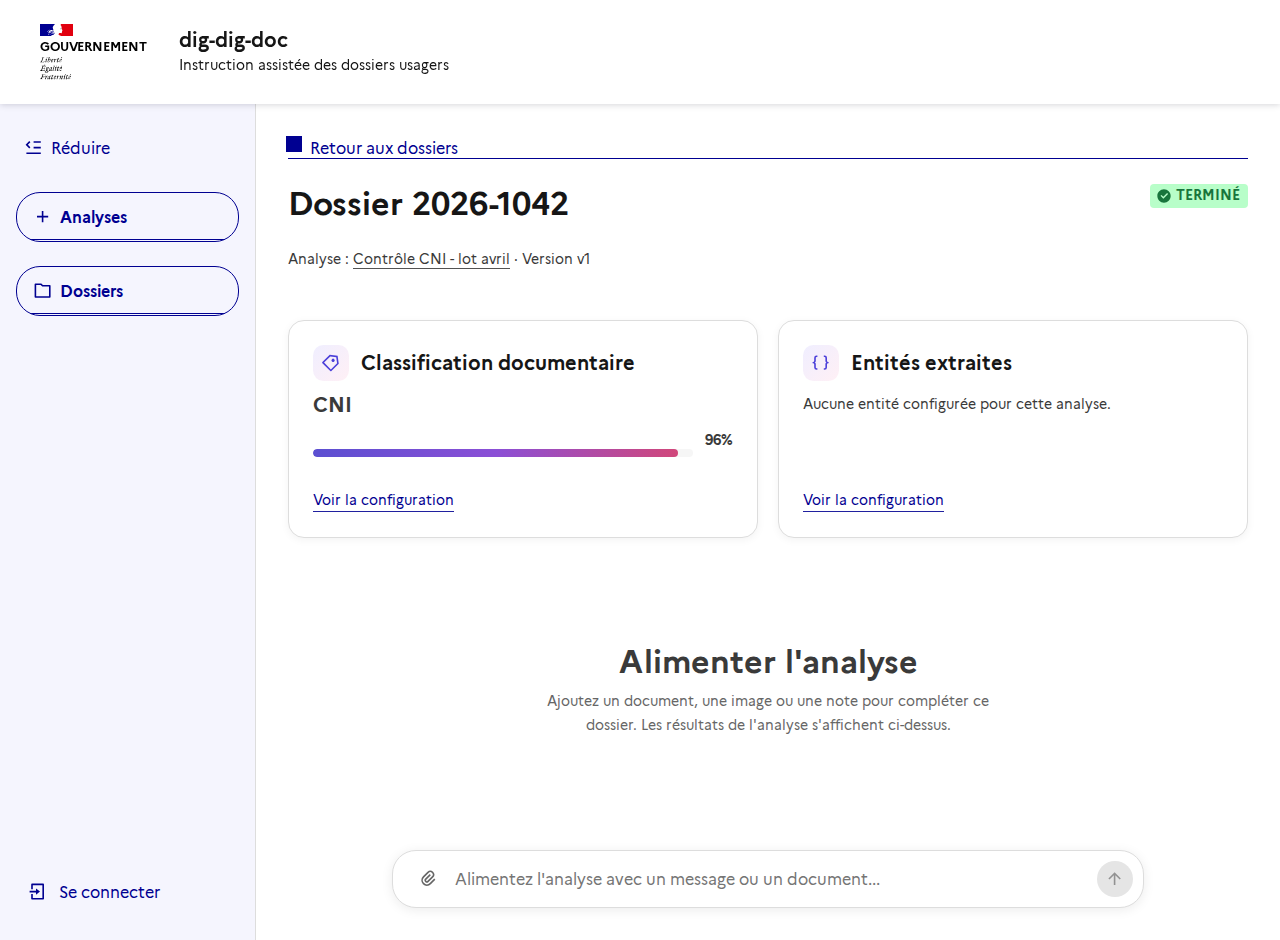
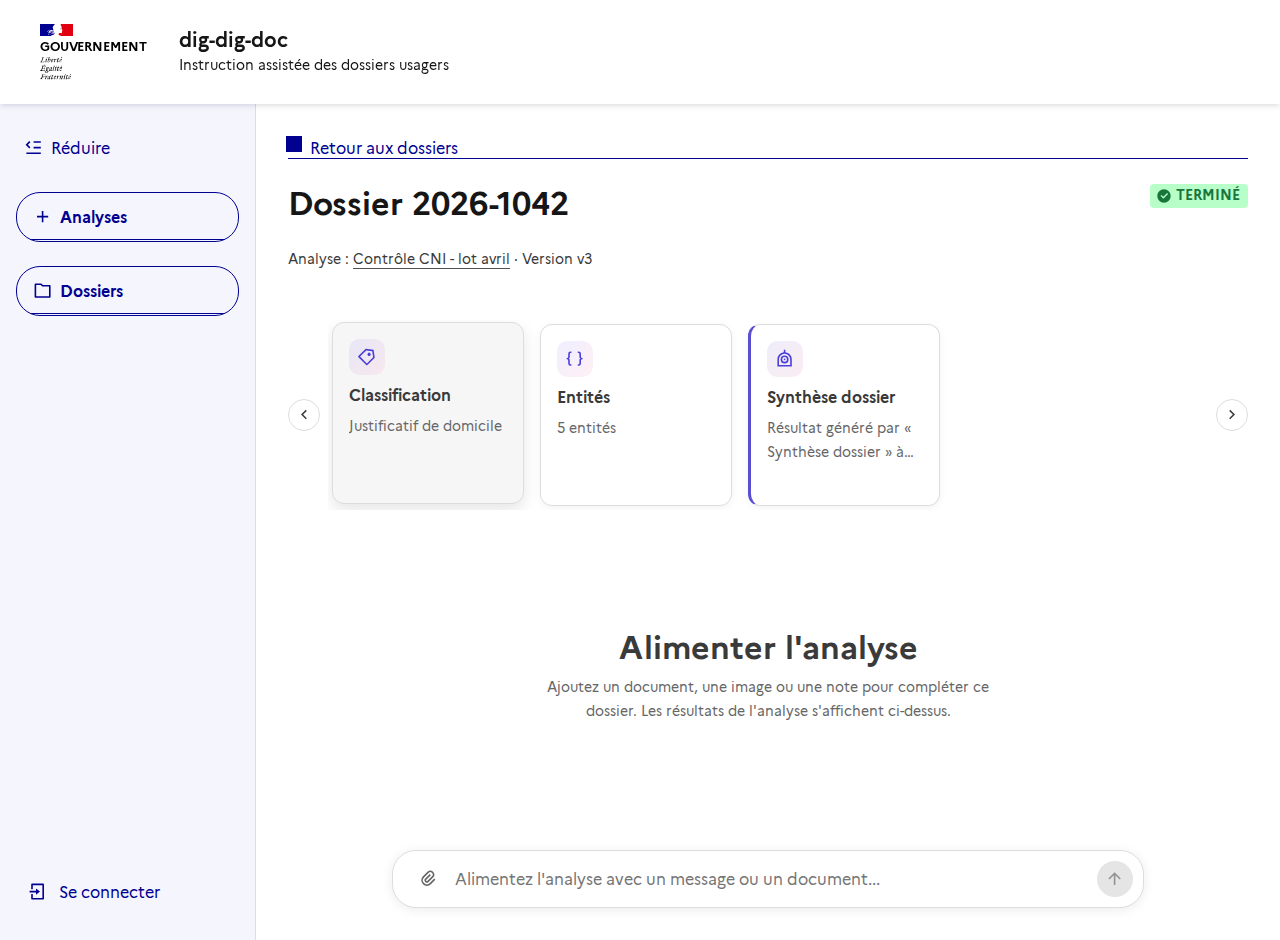
feat(frontend): résultats du dossier en carrousel de cartes cliquables
Remplace les grandes cartes de résultat par un carrousel de cartes
compactes (icône, titre, aperçu sur 2 lignes) défilable horizontalement
avec des flèches précédent/suivant. Cliquer sur une carte ouvre son
détail complet dans une modale (jauge de confiance pour la
classification, liste des entités, texte complet pour un agent).

diff --git a/frontend/src/components/dossiers/DossierResults.vue b/frontend/src/components/dossiers/DossierResults.vue
@@ -1,6 +1,5 @@
 <script setup lang="ts">
-import { computed } from "vue";
-import { RouterLink } from "vue-router";
+import { computed, ref } from "vue";
 
 import type { Analyse } from "@/types/analyse";
 import type { Dossier } from "@/types/dossier";
@@ -15,7 +14,7 @@ const classificationResult = computed(() => {
   const output = classificationStep.value?.output;
   if (!output) return undefined;
   const match = output.match(/^(.*) \(confiance : (\d+)%\)$/);
-  if (!match) return { label: output, confidence: undefined };
+  if (!match) return { label: output, confidence: undefined as number | undefined };
   return { label: match[1], confidence: Number(match[2]) };
 });
 
@@ -27,94 +26,222 @@ const extractionResult = computed(() => {
     return { name, value };
   });
 });
+
+type ResultCardKind = "classification" | "extraction" | "agent";
+
+interface ResultCard {
+  id: string;
+  kind: ResultCardKind;
+  icon: string;
+  title: string;
+  preview: string;
+  pending: boolean;
+}
+
+function extractionPreview(): string {
+  if (extractionResult.value) {
+    const count = extractionResult.value.length;
+    return `${count} ${count > 1 ? "entités" : "entité"}`;
+  }
+  return extractionStep.value?.output ?? "En attente";
+}
+
+function classificationPreview(): string {
+  if (classificationResult.value) return classificationResult.value.label;
+  return classificationStep.value?.output ?? "En attente";
+}
+
+const cards = computed<ResultCard[]>(() => {
+  const items: ResultCard[] = [
+    {
+      id: "classification",
+      kind: "classification",
+      icon: "ri-price-tag-3-line",
+      title: "Classification",
+      pending: !classificationStep.value,
+      preview: classificationPreview(),
+    },
+    {
+      id: "extraction",
+      kind: "extraction",
+      icon: "ri-braces-line",
+      title: "Entités",
+      pending: !extractionStep.value,
+      preview: extractionPreview(),
+    },
+  ];
+  agentSteps.value.forEach((step) => {
+    items.push({
+      id: step.id,
+      kind: "agent",
+      icon: "ri-robot-line",
+      title: step.label,
+      pending: false,
+      preview: step.output ?? "",
+    });
+  });
+  return items;
+});
+
+const selectedCardId = ref<string | undefined>(undefined);
+const isDetailOpened = ref(false);
+const selectedCard = computed(() => cards.value.find((c) => c.id === selectedCardId.value));
+
+function openDetail(card: ResultCard) {
+  if (card.pending) return;
+  selectedCardId.value = card.id;
+  isDetailOpened.value = true;
+}
+
+const carouselRef = ref<HTMLElement | null>(null);
+function scrollCarousel(direction: 1 | -1) {
+  carouselRef.value?.scrollBy({ left: direction * 240, behavior: "smooth" });
+}
 </script>
 
 <template>
   <div class="dossier-results">
-    <div class="dossier-results__card">
-      <div class="dossier-results__card-header">
-        <span class="dossier-results__icon"><VIcon name="ri-price-tag-3-line" /></span>
-        <h2 class="fr-h6 dossier-results__card-title">Classification documentaire</h2>
-      </div>
+    <button
+      type="button"
+      class="dossier-results__nav dossier-results__nav--prev"
+      aria-label="Résultats précédents"
+      @click="scrollCarousel(-1)"
+    >
+      <VIcon name="ri-arrow-left-s-line" />
+    </button>
 
-      <p v-if="!classificationStep" class="fr-text--sm dossier-results__pending">
-        En attente de l'exécution de l'analyse.
-      </p>
-      <template v-else-if="classificationResult">
-        <p class="dossier-results__classification-label">{{ classificationResult.label }}</p>
-        <div v-if="classificationResult.confidence !== undefined" class="dossier-results__gauge">
+    <div ref="carouselRef" class="dossier-results__carousel">
+      <button
+        v-for="card in cards"
+        :key="card.id"
+        type="button"
+        class="dossier-results__card"
+        :class="{
+          'dossier-results__card--agent': card.kind === 'agent',
+          'dossier-results__card--pending': card.pending,
+        }"
+        :disabled="card.pending"
+        @click="openDetail(card)"
+      >
+        <span class="dossier-results__icon" :class="{ 'dossier-results__icon--agent': card.kind === 'agent' }">
+          <VIcon :name="card.icon" />
+        </span>
+        <span class="dossier-results__card-title">{{ card.title }}</span>
+        <span class="fr-text--sm dossier-results__card-preview">{{ card.preview }}</span>
+      </button>
+    </div>
+
+    <button
+      type="button"
+      class="dossier-results__nav dossier-results__nav--next"
+      aria-label="Résultats suivants"
+      @click="scrollCarousel(1)"
+    >
+      <VIcon name="ri-arrow-right-s-line" />
+    </button>
+
+    <DsfrModal
+      v-if="selectedCard"
+      v-model:opened="isDetailOpened"
+      :title="selectedCard.title"
+      :icon="selectedCard.icon"
+    >
+      <template v-if="selectedCard.kind === 'classification'">
+        <p class="dossier-results__detail-label">{{ classificationResult?.label }}</p>
+        <div v-if="classificationResult?.confidence !== undefined" class="dossier-results__gauge">
           <div class="dossier-results__gauge-track">
             <div class="dossier-results__gauge-fill" :style="{ width: `${classificationResult.confidence}%` }" />
           </div>
           <span class="fr-text--sm dossier-results__gauge-value">{{ classificationResult.confidence }}%</span>
         </div>
       </template>
-      <p v-else class="fr-text--sm">{{ classificationStep.output }}</p>
 
-      <RouterLink :to="`/analyses/${dossier.analyseId}`" class="fr-link fr-text--sm dossier-results__config-link">
-        Voir la configuration
-      </RouterLink>
-    </div>
-
-    <div class="dossier-results__card">
-      <div class="dossier-results__card-header">
-        <span class="dossier-results__icon"><VIcon name="ri-braces-line" /></span>
-        <h2 class="fr-h6 dossier-results__card-title">Entités extraites</h2>
-      </div>
-
-      <p v-if="!extractionStep" class="fr-text--sm dossier-results__pending">
-        En attente de l'exécution de l'analyse.
-      </p>
-      <dl v-else-if="extractionResult" class="dossier-results__entities">
+      <dl v-else-if="selectedCard.kind === 'extraction' && extractionResult" class="dossier-results__entities">
         <div v-for="entity in extractionResult" :key="entity.name" class="dossier-results__entity">
           <dt class="fr-text--sm dossier-results__entity-name">{{ entity.name }}</dt>
           <dd class="dossier-results__entity-value">{{ entity.value }}</dd>
         </div>
       </dl>
-      <p v-else class="fr-text--sm">{{ extractionStep.output }}</p>
 
-      <RouterLink :to="`/analyses/${dossier.analyseId}`" class="fr-link fr-text--sm dossier-results__config-link">
+      <p v-else class="dossier-results__agent-output">{{ selectedCard.preview }}</p>
+
+      <RouterLink
+        v-if="selectedCard.kind !== 'agent'"
+        :to="`/analyses/${dossier.analyseId}`"
+        class="fr-link fr-text--sm dossier-results__config-link"
+      >
         Voir la configuration
       </RouterLink>
-    </div>
-
-    <div v-for="step in agentSteps" :key="step.id" class="dossier-results__card dossier-results__card--agent">
-      <div class="dossier-results__card-header">
-        <span class="dossier-results__icon dossier-results__icon--agent"><VIcon name="ri-robot-line" /></span>
-        <h2 class="fr-h6 dossier-results__card-title">{{ step.label }}</h2>
-      </div>
-      <p class="fr-text--sm dossier-results__agent-output">{{ step.output }}</p>
-    </div>
+    </DsfrModal>
   </div>
 </template>
 
 <style scoped>
 .dossier-results {
-  display: grid;
-  grid-template-columns: repeat(auto-fit, minmax(16rem, 1fr));
-  gap: 1.25rem;
+  display: flex;
+  align-items: center;
+  gap: 0.5rem;
   margin-bottom: 1.5rem;
 }
 
+.dossier-results__nav {
+  flex-shrink: 0;
+  display: flex;
+  align-items: center;
+  justify-content: center;
+  width: 2rem;
+  height: 2rem;
+  border: 1px solid var(--border-default-grey);
+  border-radius: 50%;
+  background: var(--background-default-grey);
+  cursor: pointer;
+}
+
+.dossier-results__nav:hover {
+  background: var(--background-alt-grey-hover);
+}
+
+.dossier-results__carousel {
+  flex: 1;
+  display: flex;
+  gap: 1rem;
+  overflow-x: auto;
+  scroll-snap-type: x mandatory;
+  padding: 0.25rem;
+}
+
 .dossier-results__card {
+  scroll-snap-align: start;
+  flex: 0 0 auto;
+  width: 12rem;
   background: var(--background-default-grey);
   border: 1px solid var(--border-default-grey);
-  border-radius: 1rem;
-  padding: 1.5rem;
+  border-radius: 0.75rem;
+  padding: 1rem;
   box-shadow: 0 2px 8px rgba(0, 0, 0, 0.05);
   display: flex;
   flex-direction: column;
-  gap: 0.75rem;
+  align-items: flex-start;
+  gap: 0.5rem;
+  cursor: pointer;
+  text-align: left;
+  transition:
+    box-shadow 0.15s ease,
+    transform 0.15s ease;
+}
+
+.dossier-results__card:hover:not(:disabled) {
+  box-shadow: 0 6px 16px rgba(0, 0, 0, 0.1);
+  transform: translateY(-2px);
+}
+
+.dossier-results__card--pending {
+  cursor: default;
+  opacity: 0.6;
 }
 
 .dossier-results__card--agent {
   border-left: 3px solid #5b4fd1;
-}
-
-.dossier-results__card-header {
-  display: flex;
-  align-items: center;
-  gap: 0.75rem;
 }
 
 .dossier-results__icon {
@@ -131,22 +258,25 @@ const extractionResult = computed(() => {
 
 .dossier-results__icon--agent {
   background: linear-gradient(135deg, #5b4fd11a 0%, #d1477a1a 100%);
-  color: #4b3fd9;
 }
 
 .dossier-results__card-title {
-  margin: 0;
+  font-weight: bold;
 }
 
-.dossier-results__pending {
+.dossier-results__card-preview {
   color: var(--text-mention-grey);
-  margin: 0;
+  overflow: hidden;
+  text-overflow: ellipsis;
+  display: -webkit-box;
+  -webkit-line-clamp: 2;
+  -webkit-box-orient: vertical;
 }
 
-.dossier-results__classification-label {
+.dossier-results__detail-label {
   font-size: 1.25rem;
   font-weight: bold;
-  margin: 0;
+  margin: 0 0 0.75rem;
 }
 
 .dossier-results__gauge {
@@ -211,7 +341,7 @@ const extractionResult = computed(() => {
 }
 
 .dossier-results__config-link {
-  margin-top: auto;
-  align-self: flex-start;
+  display: inline-block;
+  margin-top: 1rem;
 }
 </style>
